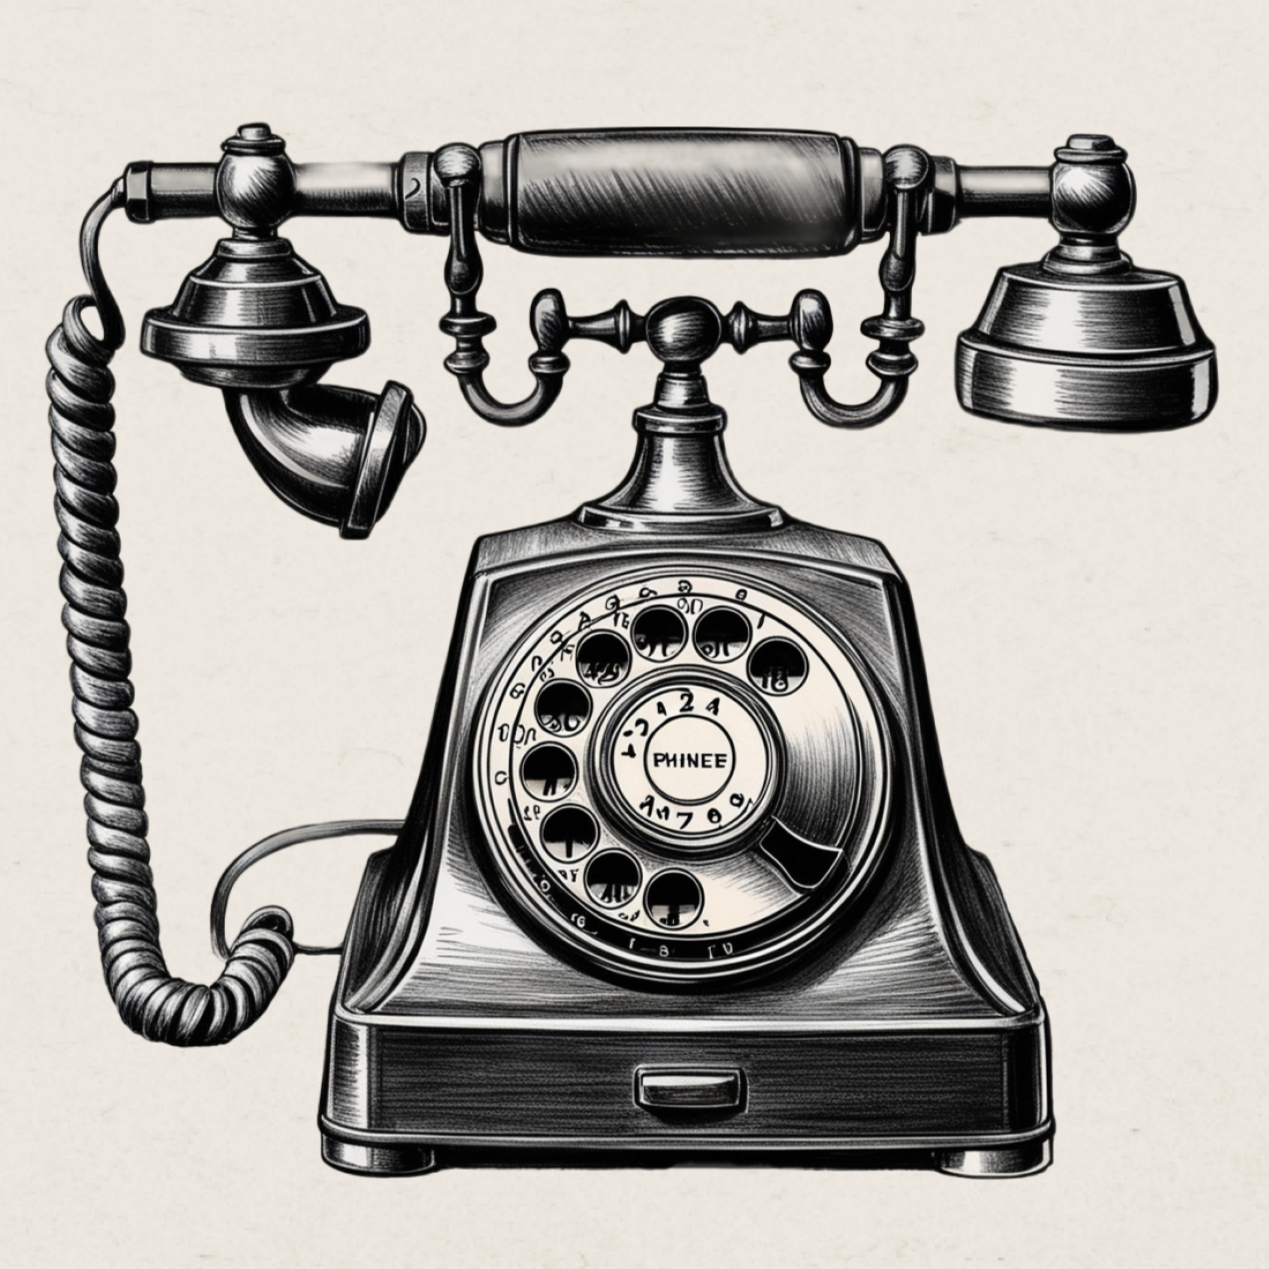
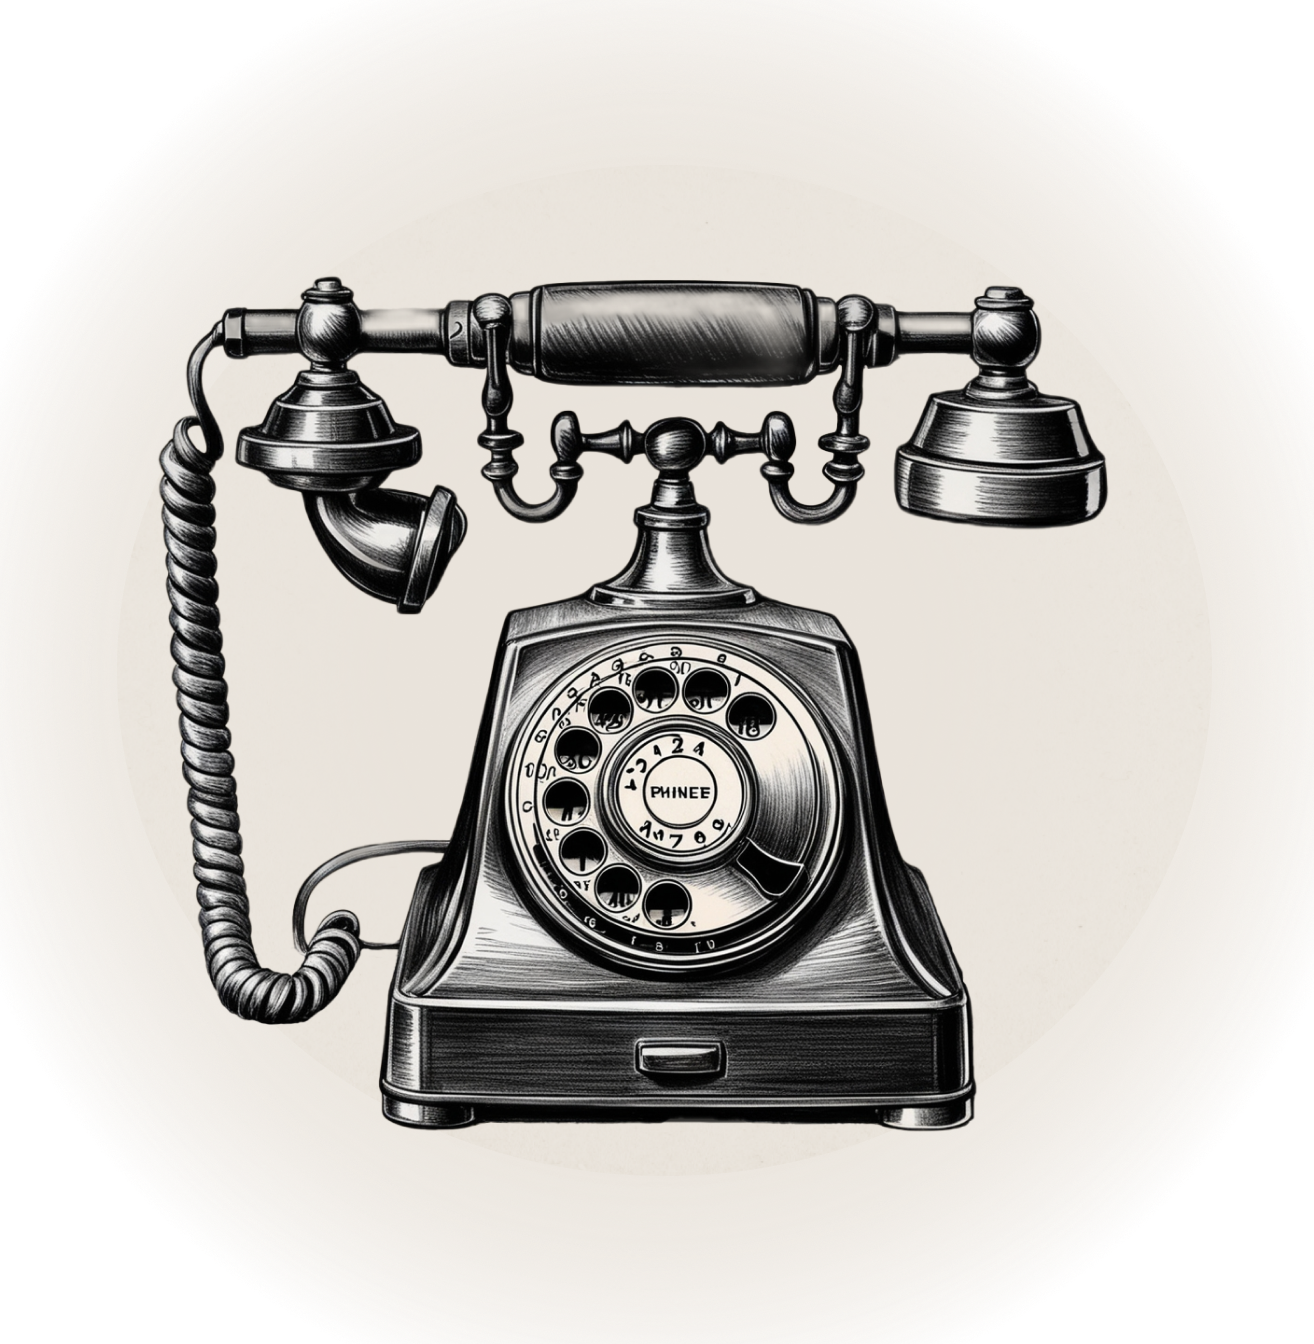
V

diff --git a/app/components/Contact.tsx b/app/components/Contact.tsx
@@ -9,7 +9,7 @@ export function Contact(): JSX.Element {
       <section className="max-w-[1440px] mx-auto px-4 sm:px-6 lg:pl-10 mt-20 sm:mt-32">
         <div className="w-full grid grid-cols-1 lg:grid-cols-4  items-center">
           <div className="lg:absolute flex justify-center z-10">
-            <Image src={decor} alt="Phone" className="w-[465px] h-auto" />
+            <Image src={decor} alt="Phone" className="w-[500px] h-auto" />
           </div>
           <div className="lg:col-span-3 lg:col-start-2 border-4 border-[#30312a] px-4 sm:px-20 lg:pl-52 xl:pl-60 lg:pr-4 xl:pr-32 py-24 -mt-20 lg:mt-0">
             <h1
@@ -25,7 +25,7 @@ export function Contact(): JSX.Element {
                   Адрес
                 </h3>
                 <p className={`mt-4 text-lg lg:text-xl ${firaSans.className}`}>
-                  Улица Братя Пулеви 1,
+                  Улица Гладстон 8,
                 </p>
                 <p className={`text-lg lg:text-xl ${firaSans.className}`}>
                   Plovdiv, Bulgaria 4000
@@ -38,10 +38,10 @@ export function Contact(): JSX.Element {
                   Контакти
                 </h3>
                 <p className={`mt-4 text-lg lg:text-xl ${firaSans.className}`}>
-                  +359 88 5888097
+                  +359 88 8209286
                 </p>
                 <p className={`text-lg lg:text-xl ${firaSans.className}`}>
-                  qbarplovdiv@gmail.com
+                  poshtata032@gmail.com
                 </p>
               </div>
             </div>
@@ -53,10 +53,10 @@ export function Contact(): JSX.Element {
                   Работно време
                 </h3>
                 <p className={`mt-4 text-lg lg:text-xl ${firaSans.className}`}>
-                  Неделя - Четвъртък 9:00 - 1:00
+                  Неделя - Четвъртък 10:00 - 1:00
                 </p>
                 <p className={`text-lg lg:text-xl ${firaSans.className}`}>
-                  Петък - Събота 9:00 - 3:00
+                  Петък - Събота 10:00 - 3:00
                 </p>
               </div>
               <div>
